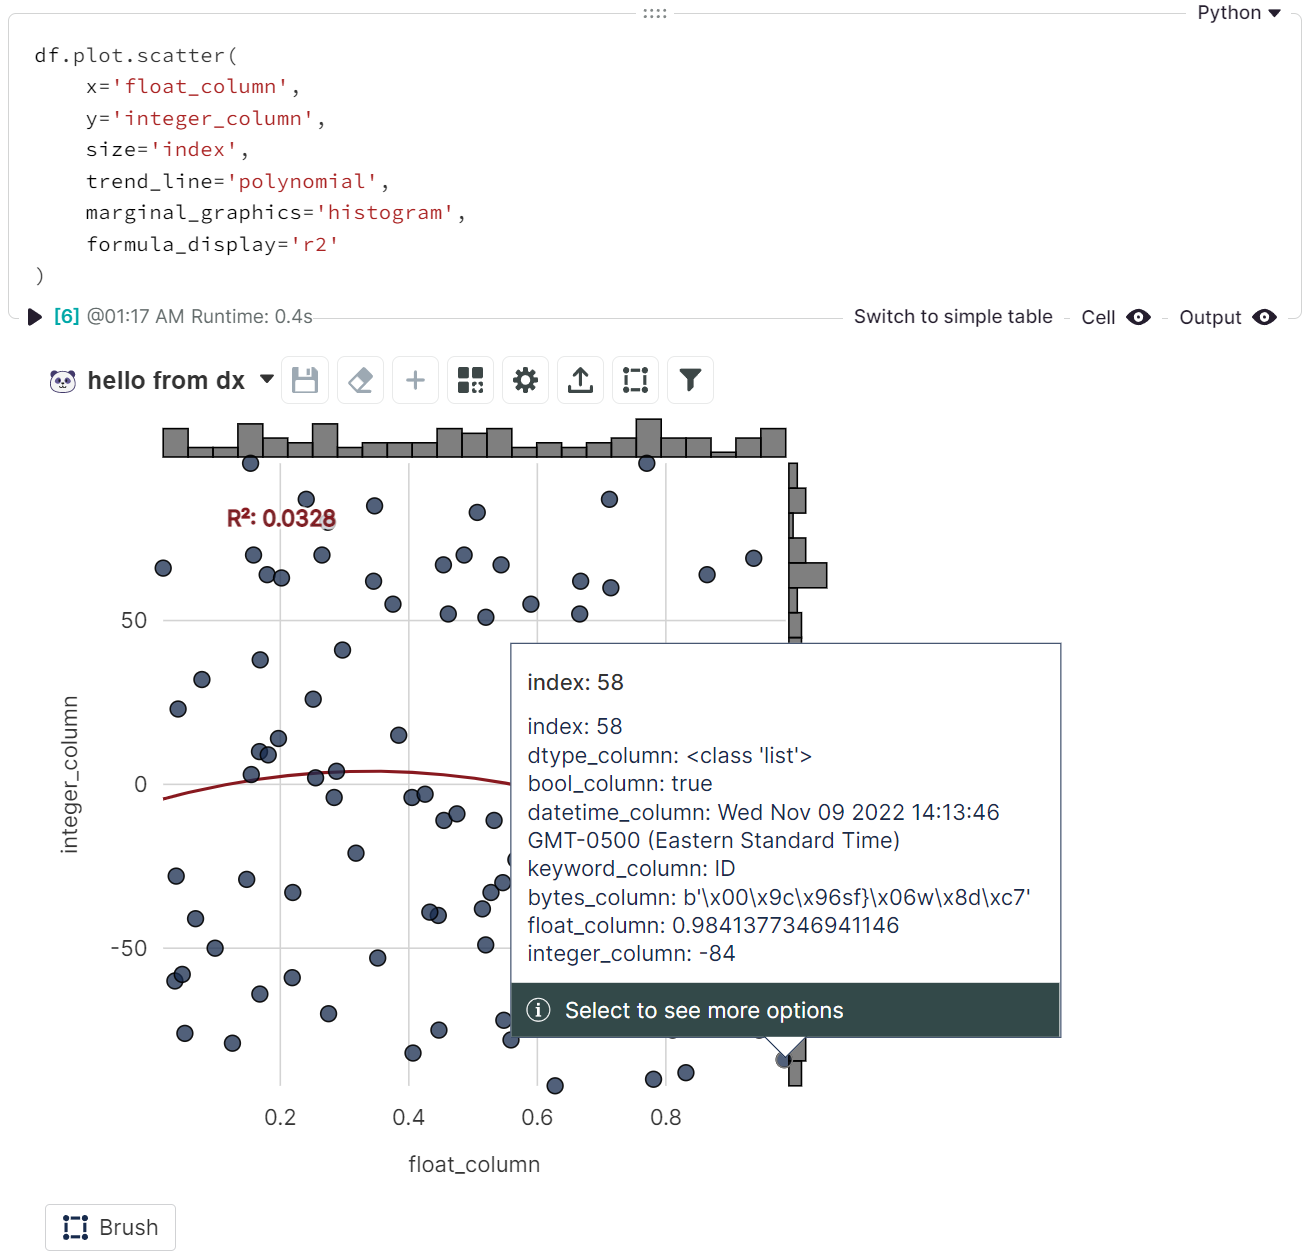
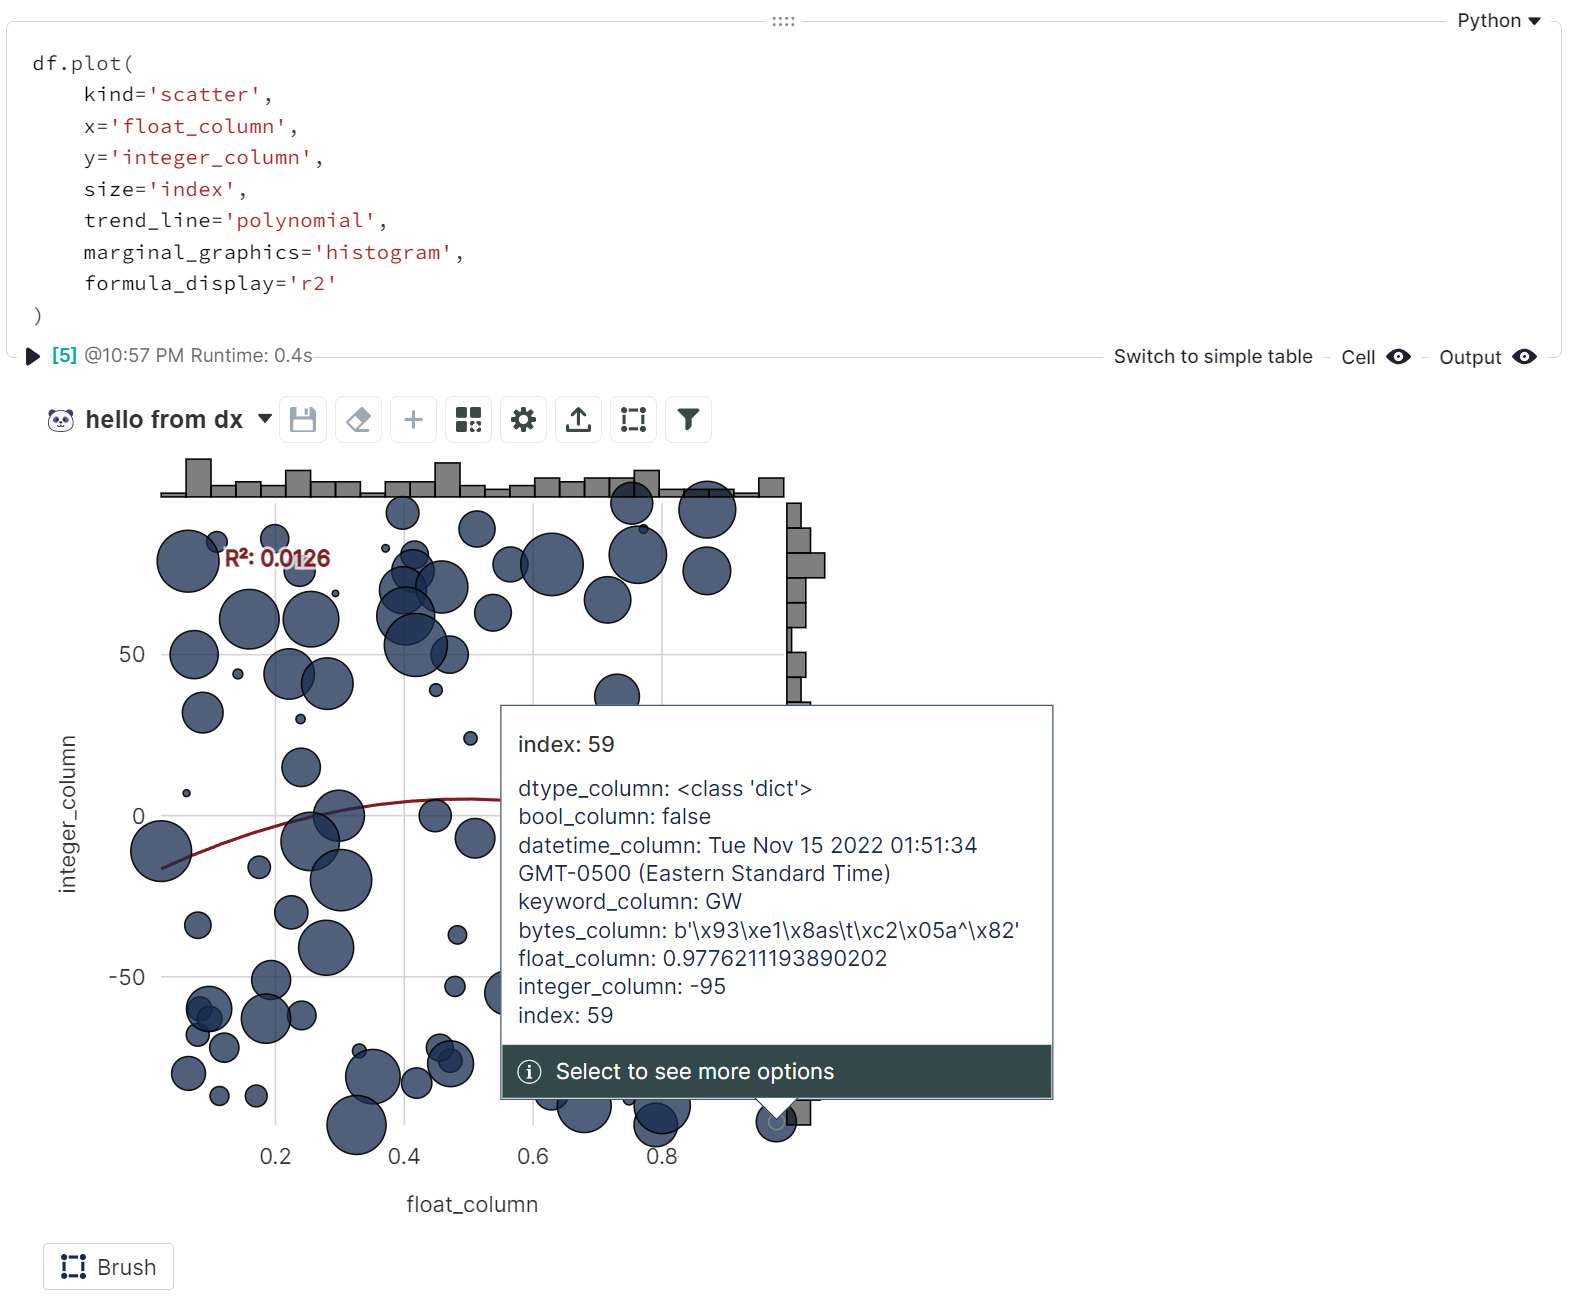
update docs and screenshots for pandas scatter syntax

diff --git a/docs/_charts/scatter.md b/docs/_charts/scatter.md
@@ -13,13 +13,17 @@
 
     !!! info "Make sure you [enable `dx` as a pandas plotting backend](../plotting/overview.md#enabling-pandas-plotting-backend) first."
 
+    !!! bug "Known Issue"
+        `df.plot.scatter()` can be used unless `size` is specified. If you wish to use pandas syntax and provide a `size` argument, please use `df.plot(kind='scatter', ...)`.
+
     ```python
-    df.plot.scatter(x='float_column', y='integer_column')
+    df.plot(kind='scatter', x='float_column', y='integer_column')
     ```
     ![](../screenshots/plotting_scatter_simple1_pd.png)
     
 ### Customized
 === "dx"
+
     ```python
     dx.scatter(
         df, 
@@ -37,8 +41,12 @@
 
     !!! info "Make sure you [enable `dx` as a pandas plotting backend](../plotting/overview.md#enabling-pandas-plotting-backend) first."
 
+    !!! bug "Known Issue"
+        `df.plot.scatter()` can be used unless `size` is specified. If you wish to use pandas syntax and provide a `size` argument, please use `df.plot(kind='scatter', ...)`.
+
     ```python
-    df.plot.scatter(
+    df.plot(
+        kind='scatter',
         x='float_column', 
         y='integer_column',
         size='index',
